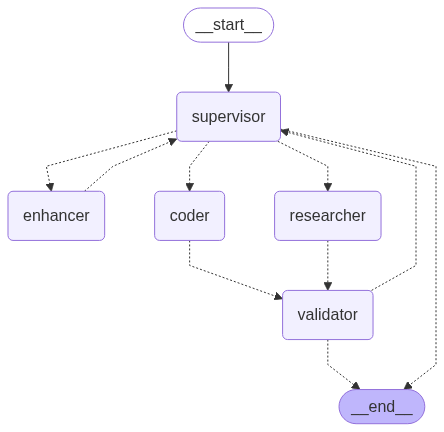
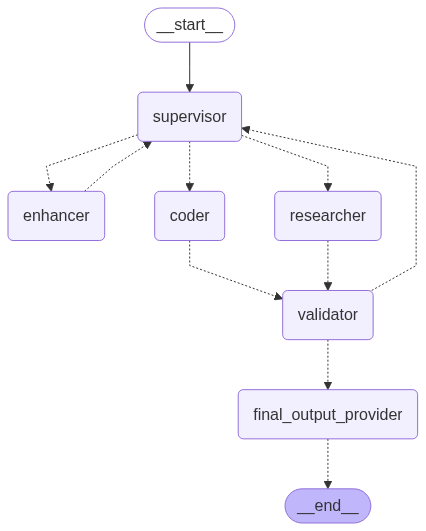
added final output provider and updated

diff --git a/src/graphs/agent_flow_v2.py b/src/graphs/agent_flow_v2.py
@@ -1,16 +1,19 @@
 from langgraph.graph import StateGraph, MessagesState, START
 from langchain_cohere import ChatCohere
 from langchain_anthropic import ChatAnthropic
-from src.graphs.nodes import SupervisorNode, EnhancerNode, ResearcherNode, CodeNode, ValidatorNode
+from langgraph.checkpoint.memory import MemorySaver
+import os
+from src.graphs.nodes import SupervisorNode, EnhancerNode, ResearcherNode, CodeNode, ValidatorNode, FinalOutputProviderNode
 
 class AgentFlowV2:
     def __init__(self):
-        # self.llm = ChatCohere(
-        #     model="command-a-03-2025",
-        #     temperature=0.0,
-        #     cohere_api_key=os.getenv("COHERE_API_KEY")
-        # )
-        self.llm = ChatAnthropic(model="claude-3-5-haiku-latest")
+        self.llm = ChatCohere(
+            model="command-a-03-2025",
+            temperature=0.0,
+            cohere_api_key=os.getenv("COHERE_API_KEY")
+        )
+        self.memory = MemorySaver()
+        # self.llm = ChatAnthropic(model="claude-3-5-haiku-latest")
 
     def __call__(self):
 
@@ -21,6 +24,7 @@ class AgentFlowV2:
         graph.add_node("researcher", ResearcherNode(self.llm)) 
         graph.add_node("coder", CodeNode(self.llm)) 
         graph.add_node("validator", ValidatorNode(self.llm))  
+        graph.add_node("final_output_provider", FinalOutputProviderNode(self.llm))
 
         graph.add_edge(START, "supervisor")  
         app = graph.compile()

diff --git a/src/graphs/nodes/final_output_provider.py b/src/graphs/nodes/final_output_provider.py
@@ -1,0 +1,41 @@
+from typing import Literal
+from langgraph.graph import END, MessagesState
+from langgraph.types import Command
+from langchain_core.messages import HumanMessage
+from langchain_cohere import ChatCohere
+from langchain_anthropic import ChatAnthropic
+from pydantic import BaseModel, Field
+
+# System prompt providing clear instructions to the validator agent
+system_prompt = '''
+    Your task is to provide the final output of the workflow.
+    Specifically, you must:
+    - Review the user's question (the first message in the workflow).
+    - Review the answer (the last message in the workflow).
+    
+    - Provide the final output of the workflow.
+'''
+
+class FinalOutputProvider(BaseModel):
+    final_output: str = Field(
+        description="The final output of the workflow."
+    )
+
+class FinalOutputProviderNode:
+    def __init__(self, llm: ChatAnthropic):
+        self.llm = llm
+
+    def __call__(self, state: MessagesState) -> Command[Literal["__end__"]]:
+
+        agent_answer = state["messages"][-2].content
+
+        print(f"--- Workflow Transition: Final Output Provider → END ---")
+    
+        return Command(
+            update={
+                "messages": [
+                    HumanMessage(content=agent_answer, name="final_output_provider")
+                ]
+            },
+            goto=END, 
+        )

diff --git a/src/graphs/nodes/validator.py b/src/graphs/nodes/validator.py
@@ -36,7 +36,7 @@ class ValidatorNode:
     def __init__(self, llm: ChatAnthropic):
         self.llm = llm
 
-    def __call__(self, state: MessagesState) -> Command[Literal["supervisor", "__end__"]]:
+    def __call__(self, state: MessagesState) -> Command[Literal["supervisor", "final_output_provider"]]:
 
         user_question = state["messages"][0].content
         agent_answer = state["messages"][-1].content
@@ -52,9 +52,9 @@ class ValidatorNode:
         goto = response.next
         reason = response.reason
 
-        if goto == "FINISH" or goto == END:
-            goto = END  
-            print(" --- Transitioning to END ---")  
+        if goto == "FINISH":
+            goto = "final_output_provider"
+            print(f"--- Workflow Transition: Validator → Final Output Provider ---")
         else:
             print(f"--- Workflow Transition: Validator → Supervisor ---")
     

diff --git a/src/graphs/nodes/__init__.py b/src/graphs/nodes/__init__.py
@@ -3,5 +3,6 @@ from .researcher import ResearcherNode
 from .coder import CodeNode
 from .validator import ValidatorNode
 from .supervisor import SupervisorNode
+from .final_output_provider import FinalOutputProviderNode
 
-__all__ = ["EnhancerNode", "ResearcherNode", "CodeNode", "ValidatorNode", "SupervisorNode"]
+__all__ = ["EnhancerNode", "ResearcherNode", "CodeNode", "ValidatorNode", "SupervisorNode", "FinalOutputProviderNode"]

diff --git a/README.md b/README.md
@@ -32,21 +32,53 @@ This project demonstrates an agentic pipeline using LangChain, LangGraph, and La
 ## Project Structure
 
 ```
-langgraph_agents/
+agentic-workflow/
 ├── src/
-│   ├── tools/              # API tools (weather, document handling)
-│   │   ├── weather.py      # Weather API tool
-│   │   └── document.py     # Document RAG tool
-│   ├── graphs/             # LangGraph flows
-│   ├── config/             # Configuration settings
-│   ├── ui/                 # Streamlit UI
-│   └── images/             # Contains all the images
-├── tests/                  # Test cases
-├── main.py                 # Command-line interface
-├── streamlit_app.py        # Streamlit UI entrypoint
-├── pyproject.toml          # Contains project dependencies
-├── .env                    # Environment variables (API keys)
-└── README.md               # Project documentation
+│   ├── tools/                           # API tools and utilities
+│   │   ├── __init__.py
+│   │   ├── weather.py                   # Weather API tool
+│   │   ├── document.py                  # Document RAG tool
+│   │   └── search_tool.py               # Search functionality
+│   ├── graphs/                          # LangGraph flows and agents
+│   │   ├── __init__.py
+│   │   ├── agent_flow.py                # Main agent flow implementation
+│   │   ├── agent_flow_v2.py             # Updated agent flow version
+│   │   └── nodes/                       # Individual agent nodes
+│   │       ├── __init__.py
+│   │       ├── supervisor.py            # Supervisor agent node
+│   │       ├── researcher.py            # Research agent node
+│   │       ├── coder.py                 # Code generation agent node
+│   │       ├── enhancer.py              # Enhancement agent node
+│   │       ├── validator.py             # Validation agent node
+│   │       └── final_output_provider.py # Final output processing
+│   ├── config/                          # Configuration settings
+│   │   └── settings.py                  # Application settings
+│   ├── ui/                              # Streamlit UI components
+│   │   └── streamlit_app.py             # Main Streamlit application
+│   ├── utils/                           # Utility functions
+│   │   └── utils.py                     # Helper utilities
+│   ├── images/                          # Project images and diagrams
+│   └── used_documents/                  # Document storage directory
+├── tests/                               # Test cases
+│   ├── __init__.py
+│   ├── conftest.py                      # Test configuration
+│   ├── test_weather_tool.py             # Weather tool tests
+│   └── test_document_tool.py            # Document tool tests
+├── data/                                # Data directory (empty)
+├── main.py                              # Command-line interface
+├── main_v2.py                           # Updated CLI interface
+├── streamlit_app.py                     # Streamlit UI entrypoint
+├── 2_supervisor_multiagent_workflow.ipynb # Jupyter notebook demo
+├── pyproject.toml                       # Project dependencies and config
+├── uv.lock                              # Dependency lock file
+├── Dockerfile                           # Docker configuration
+├── docker-compose.yml                   # Docker Compose setup
+├── README-docker.md                     # Docker documentation
+├── .dockerignore                        # Docker ignore file
+├── .gitignore                           # Git ignore file
+├── .python-version                      # Python version specification
+├── LICENSE                              # Project license
+└── README.md                            # Project documentation
 ```
 
 ## Setup Instructions
@@ -63,26 +95,76 @@ langgraph_agents/
 
 ### Installation
 
+#### Option 1: Using uv (Recommended)
+
 1. Clone the repository:
    ```bash
    git clone https://github.com/pranawmishra/agentic-workflow.git
    cd agentic-workflow
-   pip install uv
    ```
 
+2. Install dependencies using uv:
+   ```bash
+   uv sync
+   ```
+   > ⚠ **Note:** This automatically creates the virtual environment and installs all dependencies from [`pyproject.toml`](./pyproject.toml).
 
-2. Create a `.env` file with your API keys:
+#### Option 2: Using Docker
+
+1. Clone the repository:
+   ```bash
+   git clone https://github.com/pranawmishra/agentic-workflow.git
+   cd agentic-workflow
    ```
-   OPENWEATHER_API_KEY=your_openweather_api_key
-   ANTHROPIC_API_KEY=your_anthropic_api_key
-   VOYAGEAI_API_KEY=your_voyageai_api_key or COHERE_API_KEY=your_cohere_api_key
-   QDRANT_URL=your_qdrant_url
-   QDRANT_API_KEY=your_qdrant_api_key
-   # LangSmith tracing configuration
-   LANGSMITH_TRACING=true
-   LANGSMITH_API_KEY=your_langsmith_api_key
-   # Add other API keys as needed
+
+2. Create your `.env` file (see configuration section below)
+
+3. Build and run with Docker Compose:
+   ```bash
+   docker-compose up -d
    ```
+
+4. Access the application at: http://localhost:8501
+
+For detailed Docker instructions, see [README-docker.md](./README-docker.md).
+
+### Configuration
+
+Create a `.env` file in the project root with your API keys:
+
+```env
+# Required API Keys
+OPENWEATHER_API_KEY=your_openweather_api_key
+ANTHROPIC_API_KEY=your_anthropic_api_key
+
+# Embedding Provider (choose one)
+VOYAGEAI_API_KEY=your_voyageai_api_key
+# OR
+COHERE_API_KEY=your_cohere_api_key
+
+# Vector Database
+QDRANT_URL=your_qdrant_url
+QDRANT_API_KEY=your_qdrant_api_key
+
+# LangSmith tracing (optional)
+LANGSMITH_TRACING=true
+LANGSMITH_API_KEY=your_langsmith_api_key
+
+# Search Tool (optional)
+TAVILY_API_KEY=your_tavily_api_key
+```
+
+### Verify Installation
+
+Test your installation by running:
+
+```bash
+# Using uv
+python -m uv run python -c "import src.tools.weather; print('Installation successful!')"
+
+# Run tests
+python -m uv run pytest
+```
 
 ### Enabling LangSmith Tracing
 
@@ -103,8 +185,6 @@ Run the assistant from the command line:
 ```bash
 python -m uv run main.py 
 ```
-
-> ⚠ **Note:** This automatically creates the virtual environment in your root folder and installs all the dependencies present in the [`pyproject.toml`](./pyproject.toml) file.
 
 ### Streamlit UI
 
@@ -188,3 +268,7 @@ All LLM calls, chain executions, and tool invocations are automatically traced w
 ## Working URL
 
 Please [click here](https://agentic-workflow-h2bpzkxwmxfenxcn2ivdp3.streamlit.app/) for a working demo of the project
+
+## Multi-Agent Architecture
+
+![Multi-Agent Architecture](src/images/graph.png)
